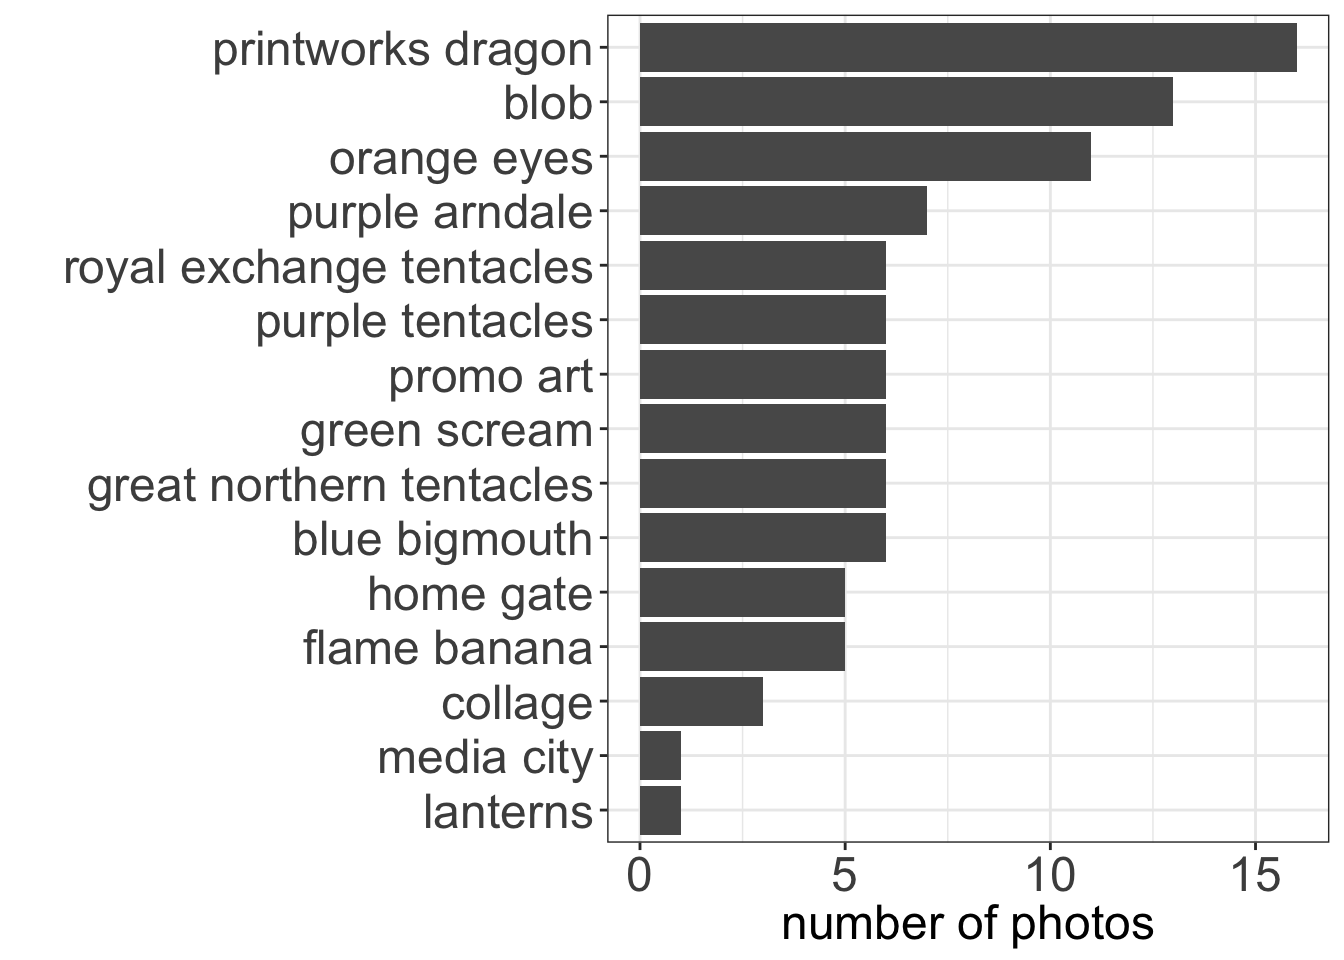
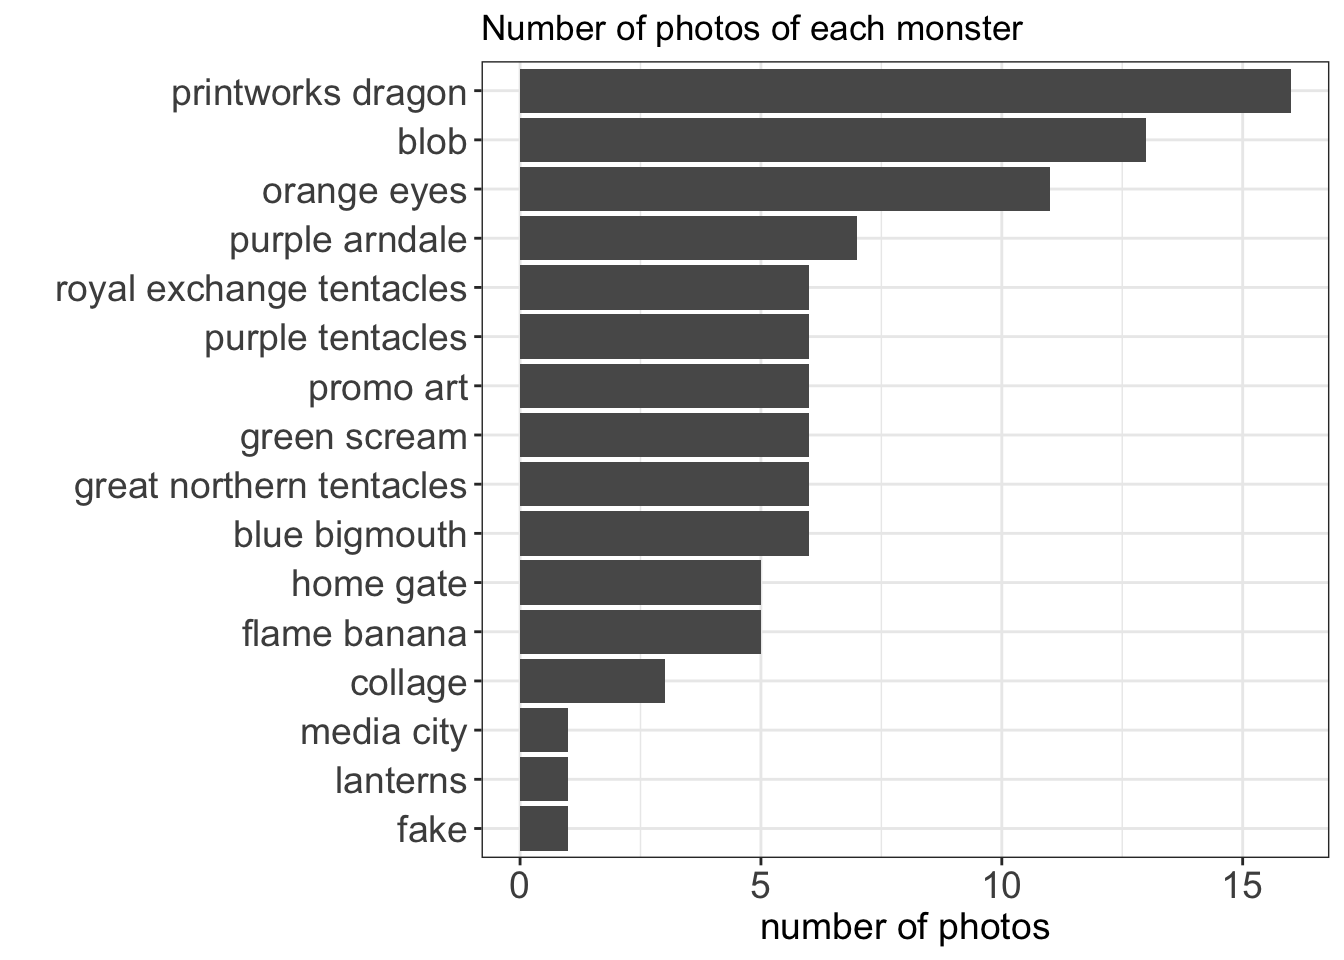
halloweenMCR update

Changed region(s): [[0.0312, 0.0, 1.0, 1.0]]

diff --git a/public/blog/halloween-mcr/index.html b/public/blog/halloween-mcr/index.html
@@ -37,7 +37,7 @@ Halloween is the best  Boys and girls of every age Wouldn’t you like to see so
 
 <meta itemprop="datePublished" content="2019-10-30T00:00:00&#43;00:00" />
 <meta itemprop="dateModified" content="2019-10-30T00:00:00&#43;00:00" />
-<meta itemprop="wordCount" content="593">
+<meta itemprop="wordCount" content="834">
 
 
 
@@ -105,7 +105,7 @@ This our town of Halloween
 <p>…and me dressed up as the <a href="https://cran.r-project.org/web/packages/broom/vignettes/broom.html">broom package</a></p>
 <p><img src="https://www.software.ac.uk/sites/default/files/image5.jpg" /></p>
 <p>(far right, with a broom and some functions taped to me…!)</p>
-<p>When I first moved to the UK 9 years ago, it was not really a thing at all, but more recently, it has become adopted as a fun and spooky holiday for all the age groups. In Manchester for example <a href="">there are now all sorts of Halloween related activities</a>. One of these is a set of <a href="">inflatable monstrers</a> which are dotted around the city centre. You can download a map to hunt for them all <a href="">here</a>.</p>
+<p>When I first moved to the UK 9 years ago, it was not really a thing at all, but more recently, it has become adopted as a fun and spooky holiday for all the age groups. In Manchester for example <a href="https://www.visitmanchester.com/ideas-and-inspiration/halloween-in-the-city">there are now all sorts of Halloween related activities</a>. One of these is a set of <a href="https://www.manchestereveningnews.co.uk/whats-on/whats-on-news/massive-inflatable-monsters-taken-over-17138466">inflatable monsters</a> which are dotted around the city centre. You can download a map to hunt for them all <a href="https://www.manchestereveningnews.co.uk/incoming/article17138695.ece/BINARY/Halloween%20in%20the%20City%202019%20-%20where%20to%20find%20the%20monsters">here</a>.</p>
 <p>Naturally, the monster walk was something very appealing to me, and we set out to walk the monster walk, take nice photos, and then pick our fave monsters over some beers. In our household, the hands down winner was “Blob”:</p>
 <div class="figure">
 <img src="../../img/blob.jpg" alt="blob" />
@@ -137,30 +137,37 @@ For my monster from his slab, began to rise
 </blockquote>
 <p>So finally we can get to some results.</p>
 <p>First I considered number of posts:</p>
-<pre class="r"><code>library(ggplot2)
-library(dplyr)</code></pre>
-<pre><code>## 
-## Attaching package: &#39;dplyr&#39;</code></pre>
-<pre><code>## The following objects are masked from &#39;package:stats&#39;:
-## 
-##     filter, lag</code></pre>
-<pre><code>## The following objects are masked from &#39;package:base&#39;:
-## 
-##     intersect, setdiff, setequal, union</code></pre>
-<pre class="r"><code>tagged_monsters &lt;- read.csv(&quot;https://raw.githubusercontent.com/maczokni/halloweenMCR/master/HalloweenMCR%2CMCRMONSTERS/mcrmonsters_2019_tagged.csv&quot;)
-
-tagged_monsters %&gt;% 
-  filter(!monsters %in% c(&#39;event&#39;, &#39;other&#39;, &#39;fake&#39;)) %&gt;% 
-  group_by(monsters) %&gt;% 
-  summarise(n = n()) %&gt;% 
-  ggplot(., aes(x = reorder(monsters, n), y = n)) + 
-  geom_bar(stat = &#39;identity&#39;) + 
-  theme_bw() +
-  xlab(&quot;&quot;) + ylab(&quot;number of photos&quot;) +
-  coord_flip() + 
-  theme(axis.text = element_text(size = 18), 
-        axis.title = element_text(size = 18))</code></pre>
 <p><img src="../../blog/2019-10-30-halloween-mcr_files/figure-html/unnamed-chunk-1-1.png" width="672" /></p>
+<p>Well it seems like this round has been won by the dragon who lives atop the Printworks. Okay…</p>
+<div class="figure">
+<img src="../../img/printworks_dragon.jpg" alt="printworks dragon" />
+<p class="caption">printworks dragon</p>
+</div>
+<p>What about the most likes?</p>
+<p><img src="../../blog/2019-10-30-halloween-mcr_files/figure-html/unnamed-chunk-2-1.png" width="672" /></p>
+<p>Yess, Blob back in the lead!</p>
+<p>But this measure is still weighting the number of photos taken, as more photos mean more likes. What about likes per photo?</p>
+<p><img src="../../blog/2019-10-30-halloween-mcr_files/figure-html/unnamed-chunk-3-1.png" width="672" /></p>
+<p>What is this?! Well in this case it seems I get as winner something I tagged as “fake”. While it is definitely not a current monster (currently in its place are the “orange eyes”), after further investigation, I think maybe it is not fake but an image from last year. <a href="https://scontent-lhr3-1.cdninstagram.com/vp/dd5625f8382560c327dd79351e06b358/5E4890DC/t51.2885-15/e35/72361344_2447249538936030_5536868822524031099_n.jpg?_nc_ht=scontent-lhr3-1.cdninstagram.com&amp;_nc_cat=106">This is the image in question.</a></p>
+<p>In either case, since I filtered for images in 2019 only, it should not be there, and is therefore DISQUALIFIED.</p>
+<p>So intead the winner is….</p>
+<p><img src="../../blog/2019-10-30-halloween-mcr_files/figure-html/unnamed-chunk-4-1.png" width="672" /></p>
+<p>…BLOB! What a champ</p>
+<div class="figure">
+<img src="../../img/blob2.jpg" alt="blob" />
+<p class="caption">blob</p>
+</div>
+</div>
+<div id="all-is-well-that-ends-well" class="section level2">
+<h2>All is well that ends well</h2>
+<p>In conclusion, it has been a fun exercise to play a bit with the Instragram API and see what sorts of information I can get out of it. Number of likes, also replies, and the URL to the photos. I want to explore more.</p>
+<p>I also noted that there is this “may contain” feature, which has some sort of image recognition application to <a href="https://www.theverge.com/2018/11/28/18116323/instagram-ai-visual-impairment-description">help describe posts for those with visual impairment</a>. I used this to query some dog photos for example (everyone loves dog photos!). A simple string contains search and boom, I hav dog + halloween monster photos!</p>
+<pre class="r"><code>dog_pics &lt;- tagged_monsters[grepl(&#39;dog&#39;, tagged_monsters$may_contain),] </code></pre>
+<p>See the two results I got back <a href="https://scontent-lhr3-1.cdninstagram.com/vp/1edf102bfe4da170e25ec11da7365375/5E59E6EB/t51.2885-15/e35/s1080x1080/73497460_551022798987863_2293245314924870553_n.jpg?_nc_ht=scontent-lhr3-1.cdninstagram.com&amp;_nc_cat=111">here</a> and <a href="https://scontent-lhr3-1.cdninstagram.com/vp/f733845b659c074eef6055f42493c71b/5E641B94/t51.2885-15/e35/s1080x1080/72267439_181815752864752_1432029834899294132_n.jpg?_nc_ht=scontent-lhr3-1.cdninstagram.com&amp;_nc_cat=104">here</a>.</p>
+<p>There is much more to explore though; originally I was hoping to get information about what filters people use, based on <a href="https://epjdatascience.springeropen.com/articles/10.1140/epjds/s13688-017-0110-z">this paper about instagram filter choice being able to diagnose depression</a>, but I did not get this info with instaloader. I guess I will keep exploring what is out there.</p>
+<p>For anyone interested, all my code for this is on my <a href="https://github.com/maczokni/halloweenMCR">github page</a>.</p>
+<p>Happy halloween!!</p>
+<p><img src="../../img/tentacles_mcr.gif" /></p>
 </div>
 
   </div>

diff --git a/content/blog/2019-10-30-halloween-mcr.html b/content/blog/2019-10-30-halloween-mcr.html
@@ -25,7 +25,7 @@ This our town of Halloween
 <p>…and me dressed up as the <a href="https://cran.r-project.org/web/packages/broom/vignettes/broom.html">broom package</a></p>
 <p><img src="https://www.software.ac.uk/sites/default/files/image5.jpg" /></p>
 <p>(far right, with a broom and some functions taped to me…!)</p>
-<p>When I first moved to the UK 9 years ago, it was not really a thing at all, but more recently, it has become adopted as a fun and spooky holiday for all the age groups. In Manchester for example <a href="">there are now all sorts of Halloween related activities</a>. One of these is a set of <a href="">inflatable monstrers</a> which are dotted around the city centre. You can download a map to hunt for them all <a href="">here</a>.</p>
+<p>When I first moved to the UK 9 years ago, it was not really a thing at all, but more recently, it has become adopted as a fun and spooky holiday for all the age groups. In Manchester for example <a href="https://www.visitmanchester.com/ideas-and-inspiration/halloween-in-the-city">there are now all sorts of Halloween related activities</a>. One of these is a set of <a href="https://www.manchestereveningnews.co.uk/whats-on/whats-on-news/massive-inflatable-monsters-taken-over-17138466">inflatable monsters</a> which are dotted around the city centre. You can download a map to hunt for them all <a href="https://www.manchestereveningnews.co.uk/incoming/article17138695.ece/BINARY/Halloween%20in%20the%20City%202019%20-%20where%20to%20find%20the%20monsters">here</a>.</p>
 <p>Naturally, the monster walk was something very appealing to me, and we set out to walk the monster walk, take nice photos, and then pick our fave monsters over some beers. In our household, the hands down winner was “Blob”:</p>
 <div class="figure">
 <img src="/img/blob.jpg" alt="blob" />
@@ -57,28 +57,35 @@ For my monster from his slab, began to rise
 </blockquote>
 <p>So finally we can get to some results.</p>
 <p>First I considered number of posts:</p>
-<pre class="r"><code>library(ggplot2)
-library(dplyr)</code></pre>
-<pre><code>## 
-## Attaching package: &#39;dplyr&#39;</code></pre>
-<pre><code>## The following objects are masked from &#39;package:stats&#39;:
-## 
-##     filter, lag</code></pre>
-<pre><code>## The following objects are masked from &#39;package:base&#39;:
-## 
-##     intersect, setdiff, setequal, union</code></pre>
-<pre class="r"><code>tagged_monsters &lt;- read.csv(&quot;https://raw.githubusercontent.com/maczokni/halloweenMCR/master/HalloweenMCR%2CMCRMONSTERS/mcrmonsters_2019_tagged.csv&quot;)
-
-tagged_monsters %&gt;% 
-  filter(!monsters %in% c(&#39;event&#39;, &#39;other&#39;, &#39;fake&#39;)) %&gt;% 
-  group_by(monsters) %&gt;% 
-  summarise(n = n()) %&gt;% 
-  ggplot(., aes(x = reorder(monsters, n), y = n)) + 
-  geom_bar(stat = &#39;identity&#39;) + 
-  theme_bw() +
-  xlab(&quot;&quot;) + ylab(&quot;number of photos&quot;) +
-  coord_flip() + 
-  theme(axis.text = element_text(size = 18), 
-        axis.title = element_text(size = 18))</code></pre>
 <p><img src="/blog/2019-10-30-halloween-mcr_files/figure-html/unnamed-chunk-1-1.png" width="672" /></p>
+<p>Well it seems like this round has been won by the dragon who lives atop the Printworks. Okay…</p>
+<div class="figure">
+<img src="/img/printworks_dragon.jpg" alt="printworks dragon" />
+<p class="caption">printworks dragon</p>
+</div>
+<p>What about the most likes?</p>
+<p><img src="/blog/2019-10-30-halloween-mcr_files/figure-html/unnamed-chunk-2-1.png" width="672" /></p>
+<p>Yess, Blob back in the lead!</p>
+<p>But this measure is still weighting the number of photos taken, as more photos mean more likes. What about likes per photo?</p>
+<p><img src="/blog/2019-10-30-halloween-mcr_files/figure-html/unnamed-chunk-3-1.png" width="672" /></p>
+<p>What is this?! Well in this case it seems I get as winner something I tagged as “fake”. While it is definitely not a current monster (currently in its place are the “orange eyes”), after further investigation, I think maybe it is not fake but an image from last year. <a href="https://scontent-lhr3-1.cdninstagram.com/vp/dd5625f8382560c327dd79351e06b358/5E4890DC/t51.2885-15/e35/72361344_2447249538936030_5536868822524031099_n.jpg?_nc_ht=scontent-lhr3-1.cdninstagram.com&amp;_nc_cat=106">This is the image in question.</a></p>
+<p>In either case, since I filtered for images in 2019 only, it should not be there, and is therefore DISQUALIFIED.</p>
+<p>So intead the winner is….</p>
+<p><img src="/blog/2019-10-30-halloween-mcr_files/figure-html/unnamed-chunk-4-1.png" width="672" /></p>
+<p>…BLOB! What a champ</p>
+<div class="figure">
+<img src="/img/blob2.jpg" alt="blob" />
+<p class="caption">blob</p>
+</div>
+</div>
+<div id="all-is-well-that-ends-well" class="section level2">
+<h2>All is well that ends well</h2>
+<p>In conclusion, it has been a fun exercise to play a bit with the Instragram API and see what sorts of information I can get out of it. Number of likes, also replies, and the URL to the photos. I want to explore more.</p>
+<p>I also noted that there is this “may contain” feature, which has some sort of image recognition application to <a href="https://www.theverge.com/2018/11/28/18116323/instagram-ai-visual-impairment-description">help describe posts for those with visual impairment</a>. I used this to query some dog photos for example (everyone loves dog photos!). A simple string contains search and boom, I hav dog + halloween monster photos!</p>
+<pre class="r"><code>dog_pics &lt;- tagged_monsters[grepl(&#39;dog&#39;, tagged_monsters$may_contain),] </code></pre>
+<p>See the two results I got back <a href="https://scontent-lhr3-1.cdninstagram.com/vp/1edf102bfe4da170e25ec11da7365375/5E59E6EB/t51.2885-15/e35/s1080x1080/73497460_551022798987863_2293245314924870553_n.jpg?_nc_ht=scontent-lhr3-1.cdninstagram.com&amp;_nc_cat=111">here</a> and <a href="https://scontent-lhr3-1.cdninstagram.com/vp/f733845b659c074eef6055f42493c71b/5E641B94/t51.2885-15/e35/s1080x1080/72267439_181815752864752_1432029834899294132_n.jpg?_nc_ht=scontent-lhr3-1.cdninstagram.com&amp;_nc_cat=104">here</a>.</p>
+<p>There is much more to explore though; originally I was hoping to get information about what filters people use, based on <a href="https://epjdatascience.springeropen.com/articles/10.1140/epjds/s13688-017-0110-z">this paper about instagram filter choice being able to diagnose depression</a>, but I did not get this info with instaloader. I guess I will keep exploring what is out there.</p>
+<p>For anyone interested, all my code for this is on my <a href="https://github.com/maczokni/halloweenMCR">github page</a>.</p>
+<p>Happy halloween!!</p>
+<p><img src="/img/tentacles_mcr.gif" /></p>
 </div>
